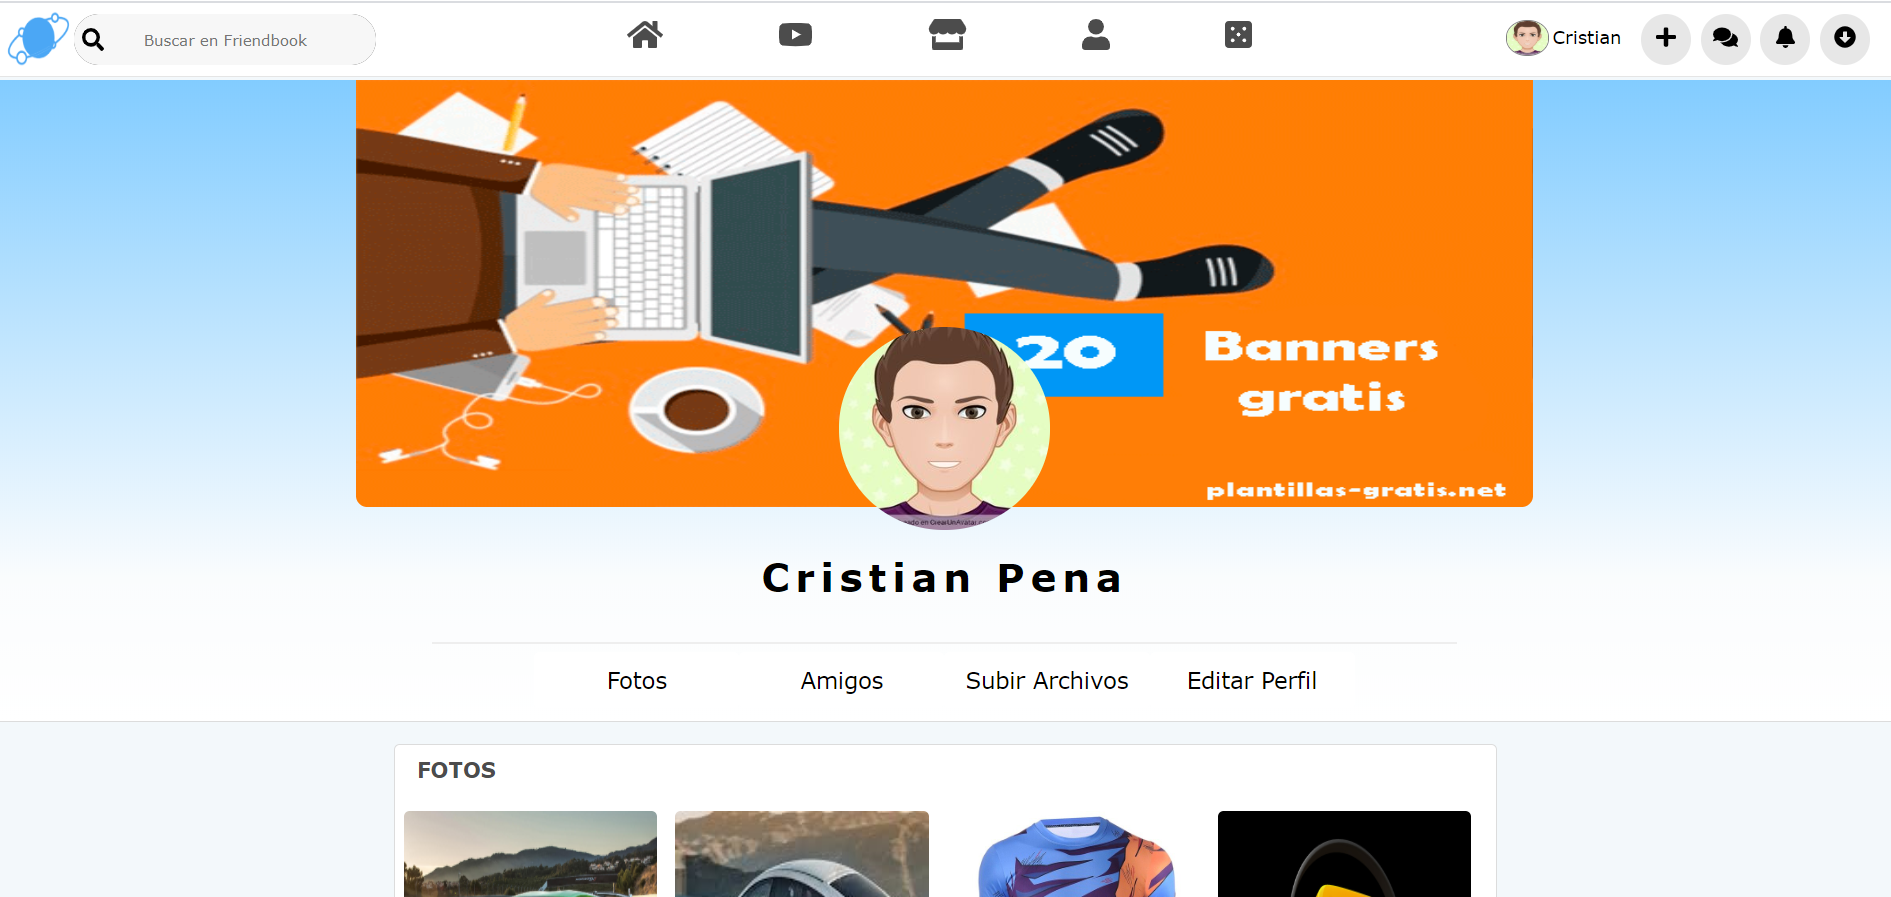
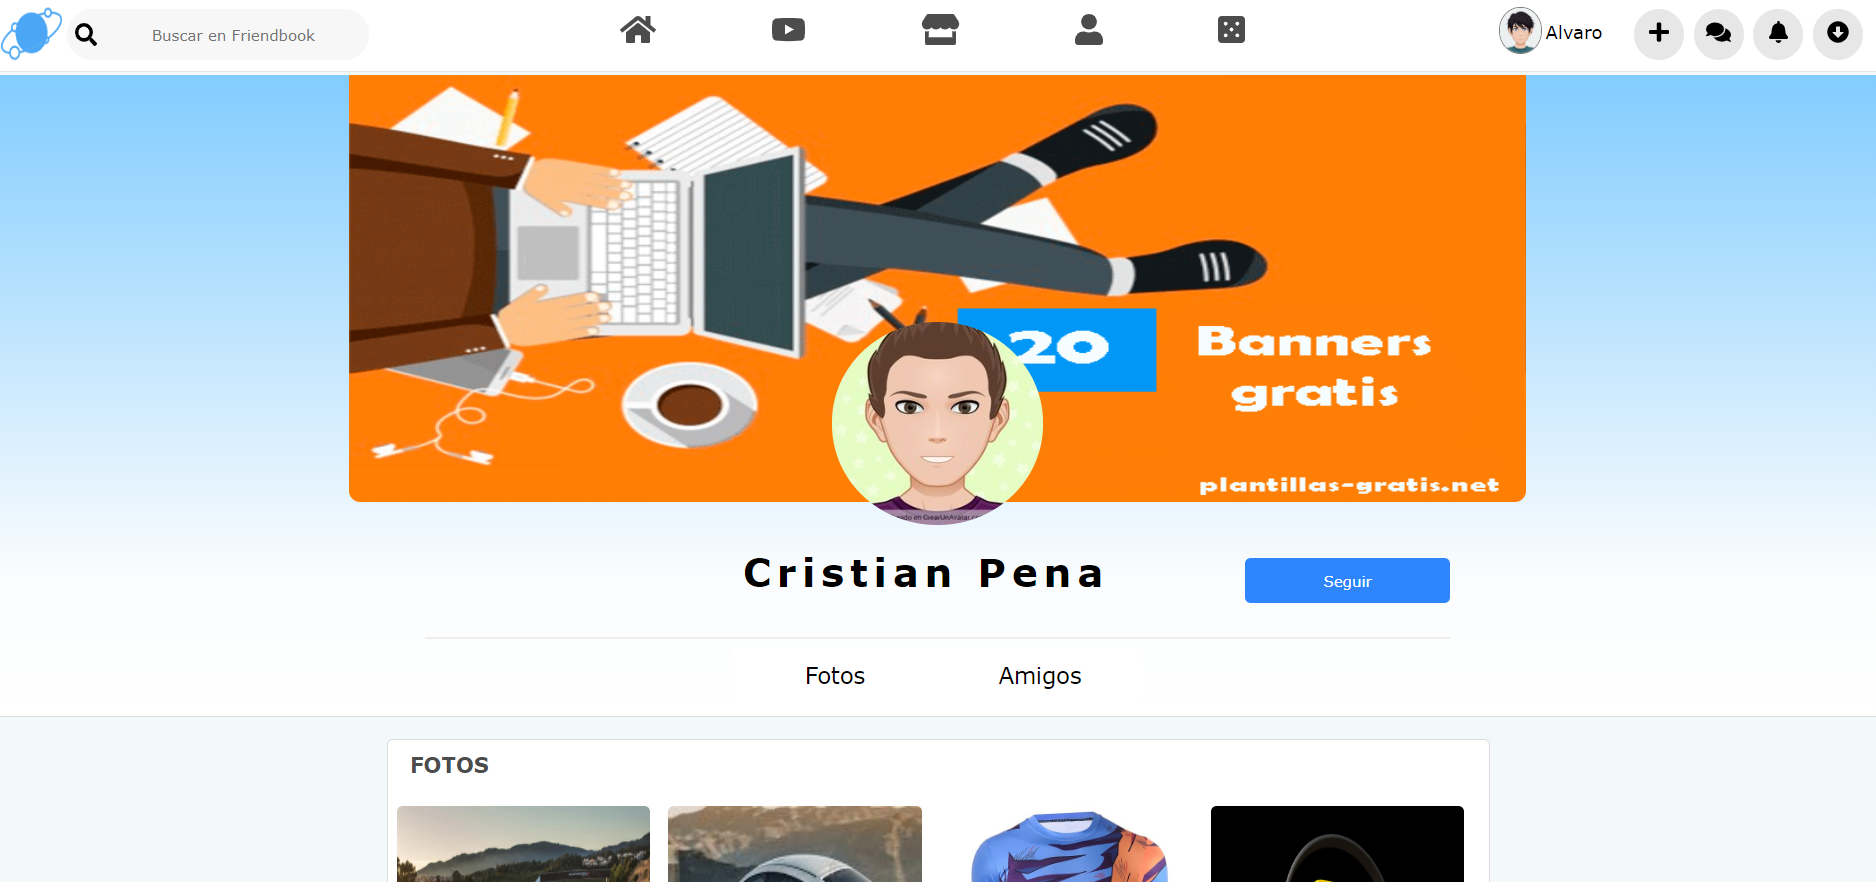
agregando funcion seguir y dejar de seguir y empezando pagina inicio

diff --git a/src/Components/BotonesSeguir/BotonesSeguir.js b/src/Components/BotonesSeguir/BotonesSeguir.js
@@ -1,0 +1,104 @@
+import React,{useState,useEffect} from 'react';
+import {withRouter} from 'react-router-dom';
+//css
+import './BotonesSeguir.css';
+//Services
+import Services from '../../Services/Services';
+//sweetalert
+import swal from 'sweetalert';
+
+
+function BotonesSeguir(props){
+
+    const [cambiarABotonSeguir, setCambiarABotonSeguir]  = useState(false);
+
+
+    useEffect( () => {
+
+        funcionComprobarSeguimiento(props.arrayDatopsUsuarioPerfil.id_usuario);
+        
+    },[props.arrayDatopsUsuarioPerfil.id_usuario]);
+
+
+    //funcion para comprobar seguimiento
+    const funcionComprobarSeguimiento = (idSeguido) => {
+        Services.chechkFollow(idSeguido,localStorage.getItem('primaryfriendsbook'))
+        .then(response => {
+            if(response.success){
+                console.log(response)
+                console.log('le sigues')
+                setCambiarABotonSeguir(true);
+            }else{
+                console.log('no le sigues')
+                setCambiarABotonSeguir(false);
+            }
+            
+        })
+    };
+
+    //funciojn para seguir
+    const handleClickSeguir = () => {
+        console.log(props.arrayDatopsUsuarioPerfil.id_usuario);   
+        if(localStorage.getItem('primaryfriendsbook')){
+
+           let dato = new URLSearchParams(`id_seguir=''&id_usuario_seguido=${props.arrayDatopsUsuarioPerfil.id_usuario}&id_usuario_seguidor=${localStorage.getItem('primaryfriendsbook')}`)
+           Services.addFollow(dato)
+           .then(response => {
+               if(response.success){
+                console.log(response)
+                setCambiarABotonSeguir(true);
+               }
+           })
+           .catch(err => console.log(err));
+
+        }else{
+            swal('Oops','Debes estar logueado','error');
+            props.history.push('/login');
+            window.location.reload(true);
+        }
+    };
+
+    //funcion para dejar de seguir
+    const handleClickDejarSeguir = () => {
+        if(localStorage.getItem('primaryfriendsbook')){
+
+            Services.unFollow(props.arrayDatopsUsuarioPerfil.id_usuario, localStorage.getItem('primaryfriendsbook'))
+            .then(response => {
+                if(response.success){
+                    console.log(response)
+                    setCambiarABotonSeguir(false);
+                }                
+            })
+            .catch(err => console.log(err));
+
+        }else{
+            swal('Oops','Debes estar logueado','error');
+            props.history.push('/login');
+            window.location.reload(true);
+        }
+    };
+
+
+    return(
+        <React.Fragment>
+        {
+            props.mostrarBotonesPerfilLogueado
+            ?
+            <div style={{display:'none'}}></div>
+            :
+            <React.Fragment>
+            {
+                cambiarABotonSeguir
+                ?
+                <input style={{background:'#E1E1E1'}} onClick={handleClickDejarSeguir} type='button' value='Dejar de Seguir'></input>
+                :
+                <input onClick={handleClickSeguir} type='button' value='Seguir'></input>
+            }
+            </React.Fragment>
+            
+        }
+        </React.Fragment>
+    )
+}
+
+export default withRouter(BotonesSeguir);

diff --git a/src/Pages/Inicio/Inicio.js b/src/Pages/Inicio/Inicio.js
@@ -2,28 +2,64 @@ import React,{useState, useEffect} from 'react';
 import {Link, withRouter} from 'react-router-dom'
 //css
 import './Inicio.css';
+//Services
+import Services from '../../Services/Services';
 
 function Inicio(props){
 
+    const [arrayImagenesUsuarios, setArrayImagenesUsuarios] = useState([]);
+
     useEffect( () => {
-        
-        // if(!localStorage.getItem('primaryfriendsbook')){
-        //     props.history.push('/login')
-        // }else{
-            
-        // }
         //llamamos a la funcion que esta en app apra ocultar el header
         const ocultarHeader = props.ocultarHeader;
         ocultarHeader();
         //llamamos a la funcion que esta en app para msotrar los asides si se han ocultado
         const funcionMostrarAsides = props.funcionMostrarAsides;
         funcionMostrarAsides();
+
+        //llamamos a la funcion que esta abajo para cargar todas las fotos
+        funcionObtenerDatos();
         
     },[]);
     
+    //funcion para obtener todas las fotos
+    const funcionObtenerDatos = () => {
+
+        Services.getAllImage()
+        .then(response => {
+            console.log(response.data);
+            setArrayImagenesUsuarios(response.data)
+        })
+        .catch(err => console.log(err))
+    };
+
     return(
         <section className='divInicio'>
-            <h2>Inicio</h2>          
+            {
+                arrayImagenesUsuarios
+                ?
+                arrayImagenesUsuarios.map((dato, key) => {
+                    return(
+                        <article key={key} className='articleInicio'>
+                            <div className='tituloUsuarioInicio'>
+                                <div className='imagenUsuariiInicio'>
+                                    <img src={dato.avatar} alt={dato.avatar}></img>
+                                </div>
+                                <h3 className='parrafosInicio'>{dato.nombre +' '+dato.apellido}</h3>
+                                <p className='parrafosInicio' style={{color:'#BBBBBB'}}>{dato.fecha_imagen}</p>
+                                <p className='parrafosInicioBajo'>{dato.titulo_imagen}</p>
+                            </div>
+
+                            <div className='divImagenInicio'>
+                                <img src={dato.imagen} alt={dato.imagen}></img>
+                            </div>
+
+                        </article>
+                    )
+                })
+                :
+                <div>Cargando...</div>
+            }
         </section>
     )
 }

diff --git a/src/Pages/Perfil/Perfil.js b/src/Pages/Perfil/Perfil.js
@@ -7,8 +7,10 @@ import Services from '../../Services/Services';
 //componente
 import SubirFoto from '../../Components/SubirFoto/SubirFoto';
 import ContenedorFotos from '../../Components/ContenedorFotos/ContenedorFotos';
+import BotonesSeguir from '../../Components/BotonesSeguir/BotonesSeguir';
 //services
 import Sevices from '../../Services/Services';
+
 
 function Perfil(props){
 
@@ -18,8 +20,8 @@ function Perfil(props){
     const [margenBotones, setMargenBotones] = useState('');
     const [arrayFotosUsaurio, setArrayFotosUsaurio ] = useState([]); //se guardaran las fotos del usuario
 
-    const [mostrarComponeteSubirFoto, setMostrarComponeteSubirFoto] = useState(false); //cargara elk componente subir foto
-    const [mostrarContenedorFotos, setMostrarContenedorFotos] = useState(true); //caargara el componente de las fotos
+    const [mostrarComponeteSubirFoto, setMostrarComponeteSubirFoto] = useState(false); //cargara el componente subir foto
+    const [mostrarContenedorFotos, setMostrarContenedorFotos] = useState(true); //cargara el componente de las fotos
     const [mostrarContenedorVerAmigios, setMostrarContenedorVerAmigios] = useState(false); //cargara el componente de amigos
     const [mostrarComponenteEditarPerfil, setMostrarComponenteEditarPerfil] = useState(true); //cargara el componente para editar
     
@@ -106,14 +108,8 @@ function Perfil(props){
 
                 <div className='nombreUsuarioPerfil'>
                     <h3>{arrayDatopsUsuarioPerfil.nombre} {arrayDatopsUsuarioPerfil.apellido}</h3>
-                    {
-                        mostrarBotonesPerfilLogueado
-                        ?
-                        <div style={{display:'none'}}></div>
-                        :
-                        <input type='button' value='Seguir'></input>
-                    }
                     
+                    <BotonesSeguir mostrarBotonesPerfilLogueado={mostrarBotonesPerfilLogueado} arrayDatopsUsuarioPerfil={arrayDatopsUsuarioPerfil}></BotonesSeguir>
                 </div>
 
                 <div className='divBotonesPerfil'>

diff --git a/src/Services/Services.js b/src/Services/Services.js
@@ -42,8 +42,20 @@ const getUserBySearch = (data, data2) => {
     return fetch(process.env.REACT_APP_RUTA+'/getUserBySearch/'+data+'/'+data2, {method:'GET'}).then(data => data.json())
 }
 //agregar seguimiento
-const adFollow = (data) => {
-    return fetch('/adFollow',{method:'POST', body:data, header:{authorization: `BEARER ${localStorage.getItem('friendsbooktoken')}`}})
+const addFollow = (data) => {
+    return fetch(process.env.REACT_APP_RUTA+'/addFollow',{method:'POST', body:data, headers:{authorization: `BEARER ${localStorage.getItem('friendsbooktoken')}`}}).then(data => data.json())
+}
+//comprobar seguimiento
+const chechkFollow = (data, data2) => {
+    return fetch(process.env.REACT_APP_RUTA+'/chechkFollow/'+data+'/'+data2, {method:'GET'}).then(data => data.json())
+}
+//dejar de seguir
+const unFollow = (data, data2) => {
+    return fetch(process.env.REACT_APP_RUTA+'/unFollow/'+data+'/'+data2,{method:'DELETE', headers:{authorization: `BEARER ${localStorage.getItem('friendsbooktoken')}`}}).then(data => data.json())
+}
+//conseguir todas las fotos
+const getAllImage = () => {
+    return fetch(process.env.REACT_APP_RUTA+'/getAllImage',{method:'GET'}).then(data => data.json())
 }
 
 export default 
@@ -57,5 +69,8 @@ export default
         deteleImageByIdImage,
         addComent,
         getComentsByIdImage,getUserBySearch,
-        adFollow
+        addFollow,
+        chechkFollow,
+        unFollow,
+        getAllImage
     }

diff --git a/src/Pages/Inicio/Inicio.css b/src/Pages/Inicio/Inicio.css
@@ -7,3 +7,62 @@
     background:#F3F8FB;
     float: left;
 }
+
+.articleInicio{
+    width: 70%;
+    margin-left: 20%;
+    height: 900px;
+    margin-top: 30px;
+    border-radius: 5px;
+    background: white;
+    box-shadow: 0px 0px 1px gray;
+    float: left;
+}
+
+.tituloUsuarioInicio{
+    width: 100%;
+    height: 100px;
+    border-bottom: 1px solid gray;
+    
+}
+
+.imagenUsuariiInicio{
+    width: 8%;
+    height: 50px;
+    margin-left: 2%;
+    overflow: hidden;
+    border-radius: 50%;
+    margin-top: 10px;
+    float: left;
+}
+
+.imagenUsuariiInicio img{
+    width: 100%;
+    height: 50px;
+}
+
+.parrafosInicio{
+    width: 80%;
+    margin-top: 10px;
+    margin-left: 1%;
+    font-size: 13px;
+    float: left;
+}
+
+.parrafosInicioBajo{
+    width: 90%;
+    margin-top: 10px;
+    margin-left: 2%;
+    float: left;
+}
+
+.divImagenInicio{
+    width: 100%;
+    height: 570px;
+    float: left;
+}
+
+.divImagenInicio img{
+    width: 100%;
+    height: 570px;
+}

diff --git a/src/Pages/Perfil/Perfil.css b/src/Pages/Perfil/Perfil.css
@@ -57,22 +57,6 @@
     float: left;
 }
 
-.nombreUsuarioPerfil input{
-    width: 20%;
-    height: 40px;
-    margin-top: 50px;
-    background: #2F85FC;
-    border: none;
-    border-radius: 5px;
-    color: white;
-    cursor: pointer;
-    float: right;
-}
-
-.nombreUsuarioPerfil input:hover{
-    background:#78C8F7;
-}
-
 .divBotonesPerfil{
     width: 54%;
     height:65px;
@@ -93,4 +77,8 @@
 
 .divBotonesPerfil input:hover{
     background: #F3F8FB;
+}
+
+.divBotonesPerfil input:focus{
+    outline : none;
 }

diff --git a/src/Components/BotonesSeguir/BotonesSeguir.css b/src/Components/BotonesSeguir/BotonesSeguir.css
@@ -1,0 +1,19 @@
+.nombreUsuarioPerfil input{
+    width: 20%;
+    height: 40px;
+    margin-top: 50px;
+    background: #2F85FC;
+    border: none;
+    border-radius: 5px;
+    color: white;
+    cursor: pointer;
+    float: right;
+}
+
+.nombreUsuarioPerfil input:hover{
+    background:#78C8F7;
+}
+
+.nombreUsuarioPerfil input:focus{
+    outline : none;
+}
